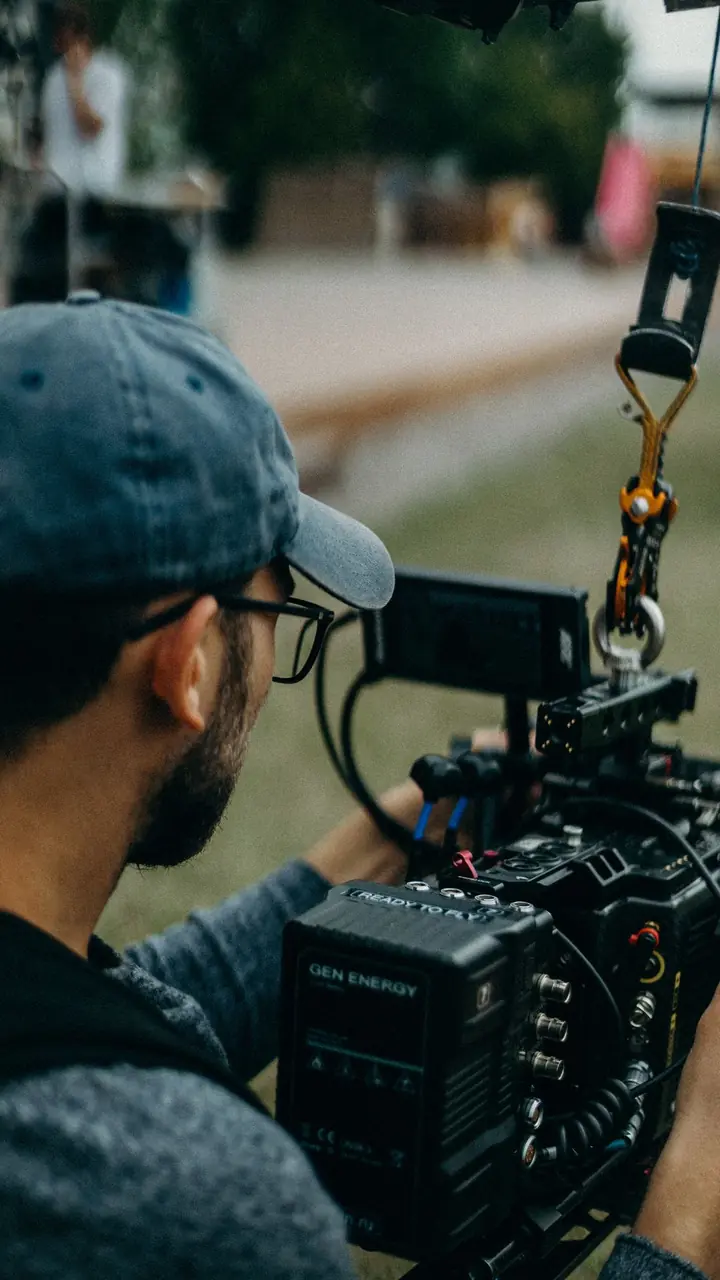
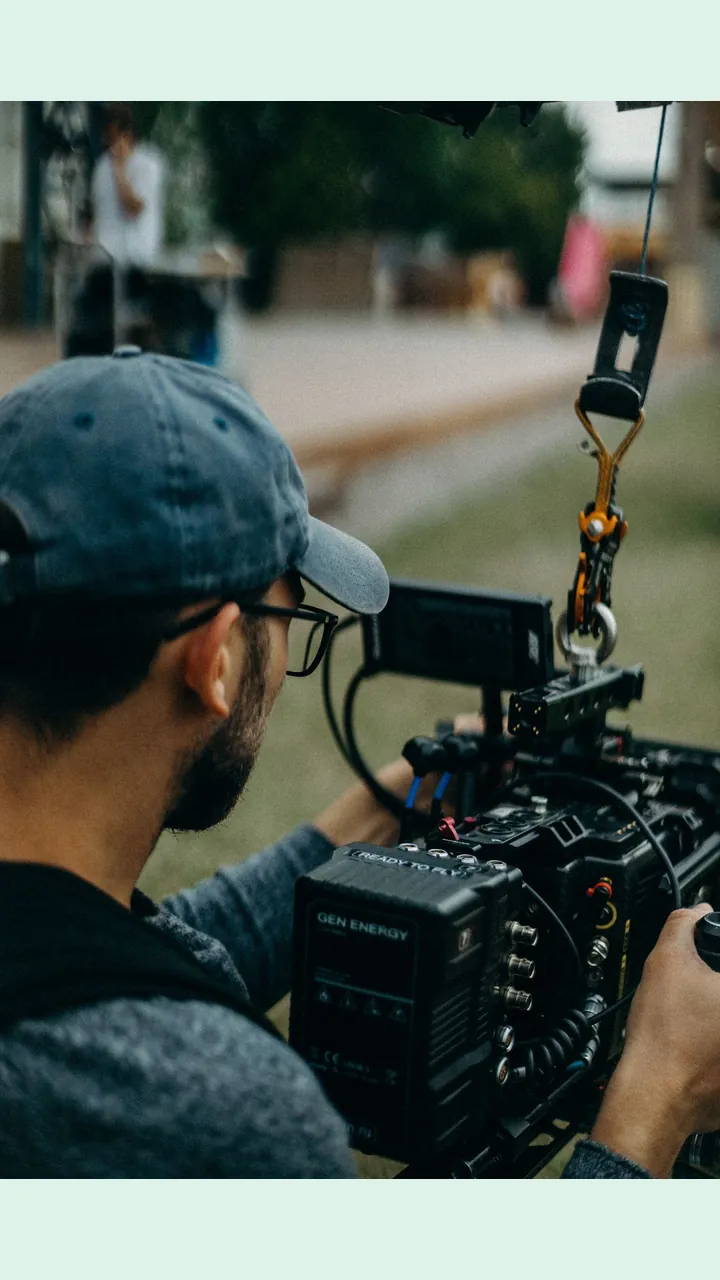
Fit complete service photos in portrait cards and refresh graphic design image

diff --git a/src/components/VisualVersePortfolio.tsx b/src/components/VisualVersePortfolio.tsx
@@ -136,7 +136,7 @@ export function PortfolioArtwork({ kind }: { kind: PortfolioCollection["id"] }) 
 }
 
 export const selectedDirectionPhotos: Record<PortfolioCollection["id"], { src: string; alt: string }> = {
-  "graphic-design": { src: "selected-directions/graphic-design.webp", alt: "Vintage printed posters and bold typography" },
+  "graphic-design": { src: "selected-directions/graphic-design.webp", alt: "Graphic designer working on visual artwork in a creative studio" },
   "photography": { src: "selected-directions/photography.webp", alt: "An editorial portrait of a woman in Nairobi" },
   "digital": { src: "selected-directions/digital.webp", alt: "Close-up of a mobile digital interface" },
   "videography": { src: "selected-directions/videography.webp", alt: "A filmmaker operating a cinema camera outdoors" },

diff --git a/src/portfolio.css b/src/portfolio.css
@@ -282,10 +282,10 @@
   }
 }
 
-/* Selected directions: native portrait imagery, consistent typography and responsive cards. */
+/* Selected directions: full-frame portrait imagery, consistent typography and responsive cards. */
 #work .vv-pf-card { min-height: 0; }
 #work .vv-pf-card-media { width: 100%; height: auto; aspect-ratio: 9/16; flex-shrink: 0; }
-#work .vv-pf-selected-photo { display: block; width: 100%; height: 100%; object-fit: cover; object-position: center; }
+#work .vv-pf-selected-photo { display: block; width: 100%; height: 100%; object-fit: contain; object-position: center; }
 #work .vv-pf-card-bottom { flex-direction: column; align-items: flex-start; gap: 12px; }
 @media (min-width: 1100px) {
   #work .vv-pf-grid { grid-template-columns: repeat(3, minmax(0, 1fr)); }

diff --git a/docs/selected-directions-image-credits.md b/docs/selected-directions-image-credits.md
@@ -1,10 +1,10 @@
 # Selected Directions photo credits
 
-All six images are illustrative stock photography sourced from Pexels under the [Pexels License](https://www.pexels.com/license/). They are not represented as commissioned Visual Verse projects. Images have been center-cropped to 720 × 1280 (9:16), compressed to WebP and served locally.
+All six images are illustrative stock photography sourced from Pexels under the [Pexels License](https://www.pexels.com/license/). They are not represented as commissioned Visual Verse projects. Images have been proportionally scaled to fit 720 × 1280 (9:16) canvases with matching pale-mint padding, without cropping any original image content. They are compressed to WebP and served locally.
 
 | Asset | Photographer | Original |
 | --- | --- | --- |
-| `graphic-design.webp` | Tim Mossholder | [Vintage printed posters and bold typography](https://www.pexels.com/photo/assorted-paper-posters-3091203/) |
+| `graphic-design.webp` | Alexander Mass | [Graphic designer working on visual artwork in a creative studio](https://www.pexels.com/photo/creative-workspace-with-designer-at-desk-30008706/) |
 | `photography.webp` | Kamunya | [An editorial portrait of a woman in Nairobi](https://www.pexels.com/photo/portrait-of-a-woman-sitting-outdoors-17647076/) |
 | `digital.webp` | Nathan J Hilton | [Close-up of a mobile digital interface](https://www.pexels.com/photo/a-smartphone-with-mobile-application-on-screen-8021284/) |
 | `videography.webp` | cottonbro studio | [A filmmaker operating a cinema camera outdoors](https://www.pexels.com/photo/man-holding-video-camera-2773498/) |
